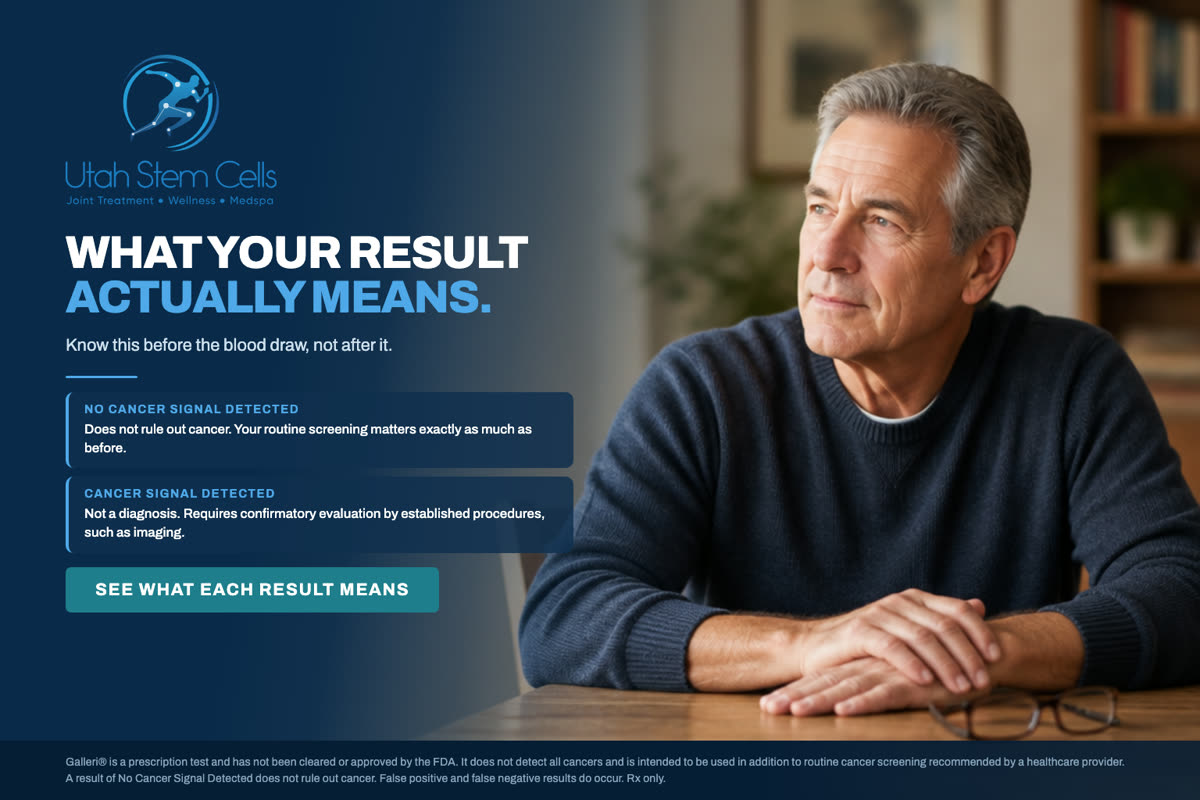
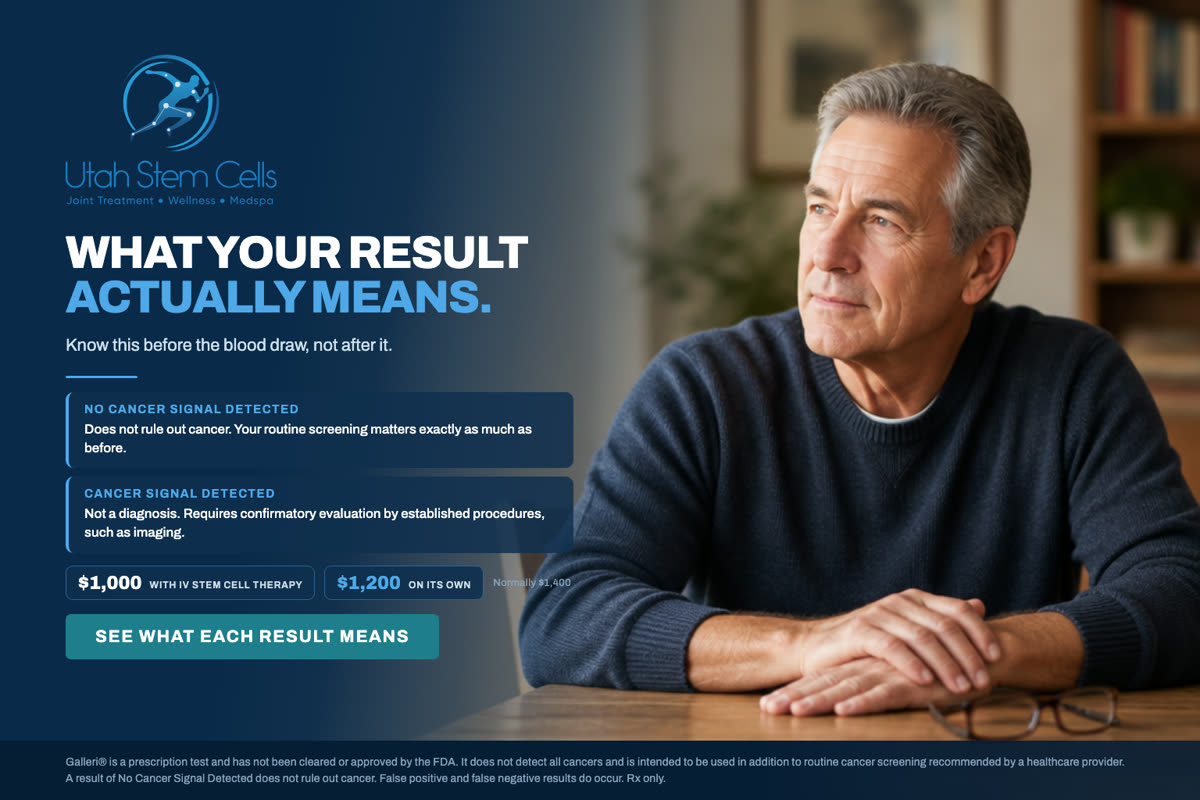
Galleri: offerta in tutte e quattro le DEM, senza data di scadenza
Su indicazione: nessun termine dichiarato, cosi l'offerta puo' comparire
anche nelle email di novembre e dicembre. Segnalato che senza data la
promozione risulta a tempo indeterminato.

Changed region(s): [[0.0308, 0.6875, 0.4625, 0.8438]]

diff --git a/newsletter/ott26/email/03-cancers-nobody-screens-for.html b/newsletter/ott26/email/03-cancers-nobody-screens-for.html
@@ -49,13 +49,12 @@
         
               <table role="presentation" width="100%" cellpadding="0" cellspacing="0" border="0" style="background-color:#eaf4fc;border:1px solid #d6e4f0;border-radius:8px;margin-top:14px;">
                 <tr><td style="padding:20px 24px;font-family:Arial,Helvetica,sans-serif;">
-                  <p style="margin:0 0 3px;font-size:13px;font-weight:bold;letter-spacing:1.2px;text-transform:uppercase;color:#0a2a4a;">What it costs</p>
-                  <p style="margin:0 0 14px;font-size:14px;font-weight:bold;color:#1479c9;">Through 31 October</p>
+                  <p style="margin:0 0 12px;font-size:13px;font-weight:bold;letter-spacing:1.2px;text-transform:uppercase;color:#0a2a4a;">What it costs</p>
                   <p style="margin:0 0 3px;font-size:14px;color:#333333;">With IV stem cell therapy</p>
                   <p style="margin:0 0 12px;font-size:28px;font-weight:bold;line-height:1;color:#0a2a4a;">$1,000</p>
                   <p style="margin:0 0 3px;font-size:14px;color:#333333;">On its own</p>
                   <p style="margin:0 0 12px;font-size:28px;font-weight:bold;line-height:1;color:#1479c9;">$1,200</p>
-                  <p style="margin:0;font-size:13px;line-height:1.5;color:#6b7c8c;">Normally $1,400. Offer ends 31 October. The price has no bearing on whether the test is appropriate for you &mdash; that is decided by the physician at an evaluation.</p>
+                  <p style="margin:0;font-size:13px;line-height:1.5;color:#6b7c8c;">Normally $1,400. The price has no bearing on whether the test is appropriate for you &mdash; that is decided by the physician at an evaluation.</p>
                 </td></tr>
               </table>
       </td></tr>

diff --git a/newsletter/ott26/email/04-what-your-result-means.html b/newsletter/ott26/email/04-what-your-result-means.html
@@ -47,6 +47,16 @@
                 </td></tr>
               </table>
         
+              <table role="presentation" width="100%" cellpadding="0" cellspacing="0" border="0" style="background-color:#eaf4fc;border:1px solid #d6e4f0;border-radius:8px;margin-top:14px;">
+                <tr><td style="padding:20px 24px;font-family:Arial,Helvetica,sans-serif;">
+                  <p style="margin:0 0 12px;font-size:13px;font-weight:bold;letter-spacing:1.2px;text-transform:uppercase;color:#0a2a4a;">What it costs</p>
+                  <p style="margin:0 0 3px;font-size:14px;color:#333333;">With IV stem cell therapy</p>
+                  <p style="margin:0 0 12px;font-size:28px;font-weight:bold;line-height:1;color:#0a2a4a;">$1,000</p>
+                  <p style="margin:0 0 3px;font-size:14px;color:#333333;">On its own</p>
+                  <p style="margin:0 0 12px;font-size:28px;font-weight:bold;line-height:1;color:#1479c9;">$1,200</p>
+                  <p style="margin:0;font-size:13px;line-height:1.5;color:#6b7c8c;">Normally $1,400. The price has no bearing on whether the test is appropriate for you &mdash; that is decided by the physician at an evaluation.</p>
+                </td></tr>
+              </table>
       </td></tr>
       <tr><td class="px btn" align="center" style="padding:30px 40px 10px;">
         

diff --git a/newsletter/ott26/email/05-is-this-test-right-for-you.html b/newsletter/ott26/email/05-is-this-test-right-for-you.html
@@ -47,6 +47,16 @@
                 </td></tr>
               </table>
         
+              <table role="presentation" width="100%" cellpadding="0" cellspacing="0" border="0" style="background-color:#eaf4fc;border:1px solid #d6e4f0;border-radius:8px;margin-top:14px;">
+                <tr><td style="padding:20px 24px;font-family:Arial,Helvetica,sans-serif;">
+                  <p style="margin:0 0 12px;font-size:13px;font-weight:bold;letter-spacing:1.2px;text-transform:uppercase;color:#0a2a4a;">What it costs</p>
+                  <p style="margin:0 0 3px;font-size:14px;color:#333333;">With IV stem cell therapy</p>
+                  <p style="margin:0 0 12px;font-size:28px;font-weight:bold;line-height:1;color:#0a2a4a;">$1,000</p>
+                  <p style="margin:0 0 3px;font-size:14px;color:#333333;">On its own</p>
+                  <p style="margin:0 0 12px;font-size:28px;font-weight:bold;line-height:1;color:#1479c9;">$1,200</p>
+                  <p style="margin:0;font-size:13px;line-height:1.5;color:#6b7c8c;">Normally $1,400. The price has no bearing on whether the test is appropriate for you &mdash; that is decided by the physician at an evaluation.</p>
+                </td></tr>
+              </table>
       </td></tr>
       <tr><td class="px btn" align="center" style="padding:30px 40px 10px;">
         

diff --git a/newsletter/ott26/email/06-how-it-works-here.html b/newsletter/ott26/email/06-how-it-works-here.html
@@ -49,6 +49,16 @@
                 </td></tr>
               </table>
         
+              <table role="presentation" width="100%" cellpadding="0" cellspacing="0" border="0" style="background-color:#eaf4fc;border:1px solid #d6e4f0;border-radius:8px;margin-top:14px;">
+                <tr><td style="padding:20px 24px;font-family:Arial,Helvetica,sans-serif;">
+                  <p style="margin:0 0 12px;font-size:13px;font-weight:bold;letter-spacing:1.2px;text-transform:uppercase;color:#0a2a4a;">What it costs</p>
+                  <p style="margin:0 0 3px;font-size:14px;color:#333333;">With IV stem cell therapy</p>
+                  <p style="margin:0 0 12px;font-size:28px;font-weight:bold;line-height:1;color:#0a2a4a;">$1,000</p>
+                  <p style="margin:0 0 3px;font-size:14px;color:#333333;">On its own</p>
+                  <p style="margin:0 0 12px;font-size:28px;font-weight:bold;line-height:1;color:#1479c9;">$1,200</p>
+                  <p style="margin:0;font-size:13px;line-height:1.5;color:#6b7c8c;">Normally $1,400. The price has no bearing on whether the test is appropriate for you &mdash; that is decided by the physician at an evaluation.</p>
+                </td></tr>
+              </table>
       </td></tr>
       <tr><td class="px btn" align="center" style="padding:30px 40px 10px;">
         

diff --git a/newsletter/ott26/creative-05.html b/newsletter/ott26/creative-05.html
@@ -76,7 +76,11 @@ h1 .accent{color:var(--blue);display:block}
       <li><span class="dot"><svg viewBox="0 0 16 16" fill="none" stroke="#4fa8e8" stroke-width="2.6" stroke-linecap="round" stroke-linejoin="round"><path d="M2.5 8.5l3.5 3.5 7.5-8"/></svg></span><span>Or at elevated risk of cancer</span></li>
       <li><span class="dot"><svg viewBox="0 0 16 16" fill="none" stroke="#4fa8e8" stroke-width="2.6" stroke-linecap="round" stroke-linejoin="round"><path d="M2.5 8.5l3.5 3.5 7.5-8"/></svg></span><span>Prescription required &mdash; the physician decides with you</span></li>
     </ul>
-    
+    <div class="prices">
+      <div class="chip"><div class="v">$1,000</div><div class="c">With IV stem cell therapy</div></div>
+      <div class="chip alt"><div class="v">$1,200</div><div class="c">On its own</div></div>
+      <div class="was">Normally $1,400</div>
+    </div>
     <a class="cta" href="#">See if it applies to you</a>
   </div>
 <div class="isi">Galleri&reg; is a prescription test and has not been cleared or approved by the FDA. It does not detect all cancers and is intended to be used in addition to routine cancer screening recommended by a healthcare provider. A result of No Cancer Signal Detected does not rule out cancer. False positive and false negative results do occur. Rx only.</div>

diff --git a/newsletter/ott26/creative-04.html b/newsletter/ott26/creative-04.html
@@ -80,7 +80,11 @@ h1 .accent{color:var(--blue);display:block}
       <div class="card"><div class="t">Cancer signal detected</div>
         <div class="b">Not a diagnosis. Requires confirmatory evaluation by established procedures, such as imaging.</div></div>
     </div>
-    
+    <div class="prices">
+      <div class="chip"><div class="v">$1,000</div><div class="c">With IV stem cell therapy</div></div>
+      <div class="chip alt"><div class="v">$1,200</div><div class="c">On its own</div></div>
+      <div class="was">Normally $1,400</div>
+    </div>
     <a class="cta" href="#">See what each result means</a>
   </div>
 <div class="isi">Galleri&reg; is a prescription test and has not been cleared or approved by the FDA. It does not detect all cancers and is intended to be used in addition to routine cancer screening recommended by a healthcare provider. A result of No Cancer Signal Detected does not rule out cancer. False positive and false negative results do occur. Rx only.</div>

diff --git a/newsletter/ott26/creative-06.html b/newsletter/ott26/creative-06.html
@@ -85,6 +85,11 @@ h1 .accent{color:var(--blue);display:block}
       <div><div class="d1">Dr. William Cimikoski</div>
       <div class="d2">Medical Director. Oversees this process personally.</div></div>
     </div>
+    <div class="prices">
+      <div class="chip"><div class="v">$1,000</div><div class="c">With IV stem cell therapy</div></div>
+      <div class="chip alt"><div class="v">$1,200</div><div class="c">On its own</div></div>
+      <div class="was">Normally $1,400</div>
+    </div>
     <a class="cta" href="#">See how the test works here</a>
   </div>
 <div class="isi">Galleri&reg; is a prescription test and has not been cleared or approved by the FDA. It does not detect all cancers and is intended to be used in addition to routine cancer screening recommended by a healthcare provider. A result of No Cancer Signal Detected does not rule out cancer. False positive and false negative results do occur. Rx only.</div>

diff --git a/newsletter/ott26/creative-03.html b/newsletter/ott26/creative-03.html
@@ -71,7 +71,7 @@ h1 .accent{color:var(--blue);display:block}
     <div class="prices">
       <div class="chip"><div class="v">$1,000</div><div class="c">With IV stem cell therapy</div></div>
       <div class="chip alt"><div class="v">$1,200</div><div class="c">On its own</div></div>
-      <div class="was">Normally $1,400 &middot; through 31 October</div>
+      <div class="was">Normally $1,400</div>
     </div>
     <a class="cta" href="#">See what Galleri looks for</a>
   </div>
